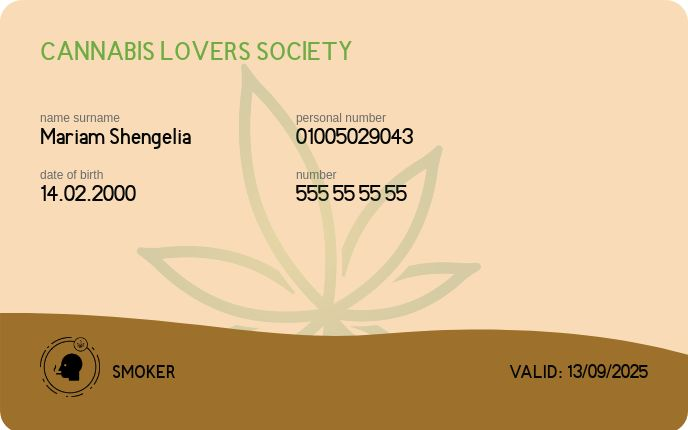
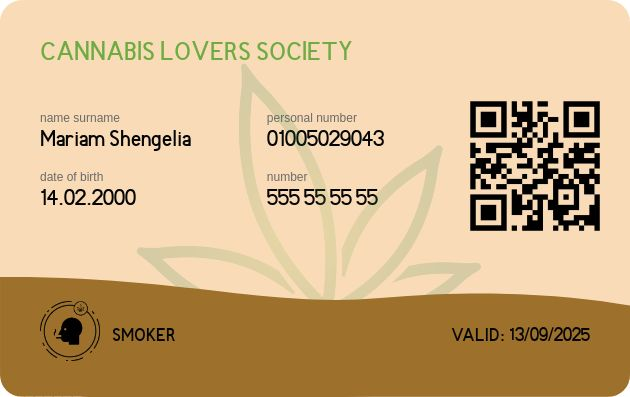
final one

diff --git a/assets/js/inneruser.js b/assets/js/inneruser.js
@@ -1,113 +1,128 @@
-// Generate User Information
-const userInfoContainer = document.getElementById('userinfo-container');
+// // Generate User Information
+// const userInfoContainer = document.getElementById('userinfo-container');
 
-userInfoContainer.innerHTML = `
-    <div class="user-info">
-        <img class="user-info--pic" src="../assets/img/users/გიგაგოგაშვილი.jpg" alt="">
-        <div class="user-info--text">
-            <h4>გიგა გიგაგოგაშვილი</h4>
-            <span>მწეველი</span>
-        </div>
+// userInfoContainer.innerHTML = `
+//     <div class="user-info">
+//         <img class="user-info--pic" src="../assets/img/users/გიგაგოგაშვილი.jpg" alt="">
+//         <div class="user-info--text">
+//             <h4>გიგა გიგაგოგაშვილი</h4>
+//             <span>მწეველი</span>
+//         </div>
 
-        <div id="qrcode"></div> 
-    </div>
+//         <div id="qrcode"></div> 
+//     </div>
 
-    <p id="quote" class="quote">საბეჭდი და ტიპოგრაფიული ინდუსტრიის უშინაარსო ტექსტია. იგი სტანდარტად 1500-იანი წლებიდან იქცა, როდესაც უცნობმა მბეჭდავმა ამწყობ დაზგაზე.</p>
+//     <p id="quote" class="quote">საბეჭდი და ტიპოგრაფიული ინდუსტრიის უშინაარსო ტექსტია. იგი სტანდარტად 1500-იანი წლებიდან იქცა, როდესაც უცნობმა მბეჭდავმა ამწყობ დაზგაზე.</p>
 
-    <div id="cards" class="cards card-golden">
-    <div id="card-front" class="card-side">
-    <header class="card-header">კანაფის მოყვარულთა საზოგადოება</header>
-    <main class="card-main">
-        <div class="card-info">
-        <span>სახელი გვარი</span>
-        <h4>სახელი გვარი</h4>
-        <span>დაბადების თარიღი</span>
-        <h4>36.12.2000</h4>
-        </div>
-        <div class="card-info">
-        <span>პირადი ნომერი</span>
-        <h4>01021234567</h4>
-        <span>ნომერი</span>
-        <h4>123456789</h4>
-        </div>
-        <div id="card-img" class="card-img">
-            <img class="img-fluid" src="/assets/img/users/გიგაგოგაშვილი.jpg" alt="user">
-        </div>
-    </main>
-    <footer class="card-footer">
-        <div class="bedge">
-            <div class="bedge-icon">
-                <img class="img-fluid" src="/assets/img/card/${'cbd'}.png" alt="bedge">
-            </div>
-            ოქროს ინვესტორი
-        </div>
-        <div>
-            ძალაშია: <span>25.12.2025</span>
-        </div>
-    </footer>
-    </div>
-    <div id="card-back" class="card-side">
-    <header class="card-header">CANNABIS LOVERS SOCIETY</header>
-    <main class="card-main">
-    <div class="card-info">
-    <span>name surname</span>
-    <h4>Name Surname</h4>
-    <span>date of birth</span>
-    <h4>36.12.2000</h4>
-    </div>
-    <div class="card-info">
-    <span>personal number</span>
-    <h4>01021234567</h4>
-    <span>number</span>
-    <h4>123456789</h4>
-    </div>
-    <div id="card-img" class="card-img">
-    <div class="card-qrcode"></div>
-    </div>
-    </main>
-    <footer class="card-footer">
-    <div class="bedge">
-        <div class="bedge-icon">
-            <img class="img-fluid" src="/assets/img/card/${'cbd'}.png" alt="bedge">
-        </div>
-        GOLDEN INVESTOR
-    </div>
-    <div>
-        VALID: <span>25.12.2025</span>
-    </div>
-    </footer>
-    </div>
-    </div>
-    `
+//     <div id="cards" class="cards card-golden">
+//     <div id="card-front" class="card-side">
+//     <header class="card-header">კანაფის მოყვარულთა საზოგადოება</header>
+//     <main class="card-main">
+//         <div class="card-info">
+//         <span>სახელი გვარი</span>
+//         <h4>სახელი გვარი</h4>
+//         <span>დაბადების თარიღი</span>
+//         <h4>36.12.2000</h4>
+//         </div>
+//         <div class="card-info">
+//         <span>პირადი ნომერი</span>
+//         <h4>01021234567</h4>
+//         <span>ნომერი</span>
+//         <h4>123456789</h4>
+//         </div>
+//         <div id="card-img" class="card-img">
+//             <img class="img-fluid" src="/assets/img/users/გიგაგოგაშვილი.jpg" alt="user">
+//         </div>
+//     </main>
+//     <footer class="card-footer">
+//         <div class="bedge">
+//             <div class="bedge-icon">
+//                 <img class="img-fluid" src="/assets/img/card/${'cbd'}.png" alt="bedge">
+//             </div>
+//             ოქროს ინვესტორი
+//         </div>
+//         <div>
+//             ძალაშია: <span>25.12.2025</span>
+//         </div>
+//     </footer>
+//     </div>
+//     <div id="card-back" class="card-side">
+//     <header class="card-header">CANNABIS LOVERS SOCIETY</header>
+//     <main class="card-main">
+//     <div class="card-info">
+//     <span>name surname</span>
+//     <h4>Name Surname</h4>
+//     <span>date of birth</span>
+//     <h4>36.12.2000</h4>
+//     </div>
+//     <div class="card-info">
+//     <span>personal number</span>
+//     <h4>01021234567</h4>
+//     <span>number</span>
+//     <h4>123456789</h4>
+//     </div>
+//     <div id="card-img" class="card-img">
+//     <div class="card-qrcode"></div>
+//     </div>
+//     </main>
+//     <footer class="card-footer">
+//     <div class="bedge">
+//         <div class="bedge-icon">
+//             <img class="img-fluid" src="/assets/img/card/${'cbd'}.png" alt="bedge">
+//         </div>
+//         GOLDEN INVESTOR
+//     </div>
+//     <div>
+//         VALID: <span>25.12.2025</span>
+//     </div>
+//     </footer>
+//     </div>
+//     </div>
+//     `
 
 
-/* ========== Qr Code ========== */
+// /* ========== Qr Code ========== */
 
-const qrdata = document.getElementById("qr-data")
-const take = document.getElementById("take")
-const cardQrCodes = document.getElementsByClassName('card-qrcode')
+// const qrdata = document.getElementById("qr-data")
+// const take = document.getElementById("take")
+// const cardQrCodes = document.getElementsByClassName('card-qrcode')
 
-for(let i = 0; i < cardQrCodes.length; i++){
-    let cardqrcode = new QRCode(cardQrCodes[i], {
-        text: "https://legalize.ge/", //this generates code
-        width: 130,
-        height: 130,
-        colorDark : "#000",
-        colorLight : "transparent",
-        correctLevel : QRCode.CorrectLevel.H
-    });
-}
+// for(let i = 0; i < cardQrCodes.length; i++){
+//     let cardqrcode = new QRCode(cardQrCodes[i], {
+//         text: "https://legalize.ge/", //this generates code
+//         width: 130,
+//         height: 130,
+//         colorDark : "#000",
+//         colorLight : "transparent",
+//         correctLevel : QRCode.CorrectLevel.H
+//     });
+// }
 
-let qrcode = new QRCode(document.getElementById("qrcode"), {
-text: "https://legalize.ge/", //this generates code
-width: 130,
-height: 130,
-colorDark : "#0e6a38",
-colorLight : "transparent",
-correctLevel : QRCode.CorrectLevel.H
-});
+// let qrcode = new QRCode(document.getElementById("qrcode"), {
+// text: "https://legalize.ge/", //this generates code
+// width: 130,
+// height: 130,
+// colorDark : "#0e6a38",
+// colorLight : "transparent",
+// correctLevel : QRCode.CorrectLevel.H
+// });
 
-const generateQR = () => {
-    let data = qrdata.value
-    qrcode.makeCode(data)
-}
+// const generateQR = () => {
+//     let data = qrdata.value
+//     qrcode.makeCode(data)
+// }
+
+// const qrgenerate = (num, id) => {
+//     let qrdiv;
+//     let qrcode = new QRCode(qrdiv, {
+//         text: "https://legalize.ge/user/1",
+//         colorDark : "#0e6a38",
+//         colorLight : "transparent",
+//         correctLevel : QRCode.CorrectLevel.H
+//         });
+//         return qrdiv;
+
+
+// }
+
+// export default qrgenerate

diff --git a/assets/js/generateBackCardTemplate.js b/assets/js/generateBackCardTemplate.js
@@ -26,8 +26,8 @@ const generateCardTemplateEn = function(namesurname, id, number, img, status, qr
 
   /* Card Styles */
 body{
-    width: 688px;
-    height: 430px;
+    width: 166.6mm;
+    height: 105mm;
 }
 .cards {
     display: flex;
@@ -40,8 +40,8 @@ body{
 .card-side {
     font-family: "BPG Nino Mtavruli Bold", sans-serif;
     font-weight: 400;
-    width: 182mm;
-    height: 114.6mm;
+    width: 166.6mm;
+    height: 105mm;
     border: 0;
     border-radius: 22px;
     letter-spacing: 0;
@@ -89,7 +89,7 @@ body{
     display: block;
     font-size: 12px;
     color: #6A6A6A;
-    margin: 0 0 2px 0;
+    margin: 0 0 4px 0;
     padding: 0;
 }
 
@@ -110,6 +110,12 @@ body{
     width: 100%;
     height: 100%;
     object-fit: cover;
+}
+
+.card-qrcode img {
+    width:150px;
+    height: 150px;
+    object-fit:auto;
 }
 
 .card-footer {
@@ -245,7 +251,9 @@ body{
     <h4>{{number}}</h4>
     </div>
     <div id="card-img" class="card-img">
-    <div class="card-qrcode"></div>
+    <div class="card-qrcode">
+    <img src="http://127.0.0.1:3000/assets/legalize-qr.png">
+    </div>
     </div>
     </main>
     <footer class="card-footer">

diff --git a/cardtopng.js b/cardtopng.js
@@ -1,6 +1,6 @@
 // import nodeHtmlToImage from 'node-html-to-image'
 import generateCardTemplateGe from './assets/js/generateFrontCardTemplate.js'
-import generateCardTemplateEn from './assets/js/generateBackCardTemplate.js'
+import generateCardTemplateEn from './assets/js/generateBackCardTemplate.js'         
 import nodeHtmlToImage from 'node-html-to-image'
 
 import fetch from 'node-fetch';
@@ -14,7 +14,6 @@ async function fetchUsers() {
     const users = await response.json()
     return users.data
 }
-
 
 let a = 0
 let num = 0
@@ -33,6 +32,7 @@ async function card2png(){
   let idnum;
   let statusen;
   let name;
+
   let badge;
   let users = await fetchUsers()
 
@@ -54,8 +54,8 @@ async function card2png(){
     }
     front()
   
-    //have to be deleted
     const back = () => {
+        
       nodeHtmlToImage({
         output: `./assets/cards/${num}-back.jpg`,
         html: generateCardTemplateEn(namesurname, id, number, img, status, qr, bday, validate),
@@ -72,11 +72,3 @@ async function card2png(){
 }
 
 card2png()
-
-
-
-
-
-
-
-

diff --git a/assets/js/generateFrontCardTemplate.js b/assets/js/generateFrontCardTemplate.js
@@ -25,8 +25,8 @@ const generateCardTemplateGe = function(namesurname, id, number, img, status, qr
 }
 
 body{
-    width: 688px;
-    height: 430px;
+    width: 166.6mm;
+    height: 105mm;
 }
 
 /* Card Styles */
@@ -43,8 +43,8 @@ body{
 .card-side {
     font-family: "BPG Nino Mtavruli Bold", sans-serif;
     font-weight: 400;
-    width: 182mm;
-    height: 114.6mm;
+    width: 166.6mm;
+    height: 105mm;
     border: 0;
     border-radius: 22px;
     letter-spacing: 0;
@@ -92,7 +92,7 @@ body{
     display: block;
     font-size: 12px;
     color: #6A6A6A;
-    margin: 0 0 2px 0;
+    margin: 0 0 4px 0;
     padding: 0;
 }
 
